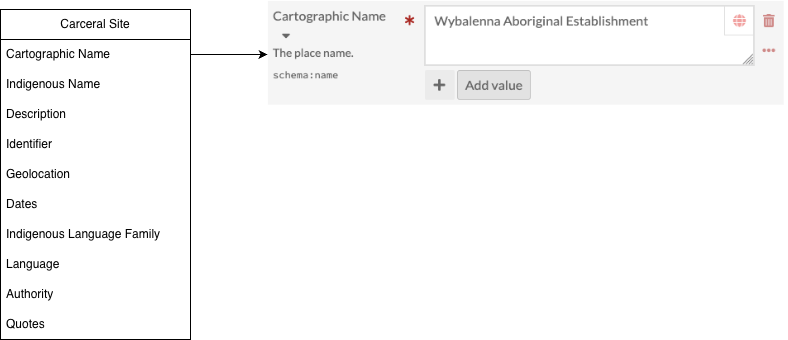
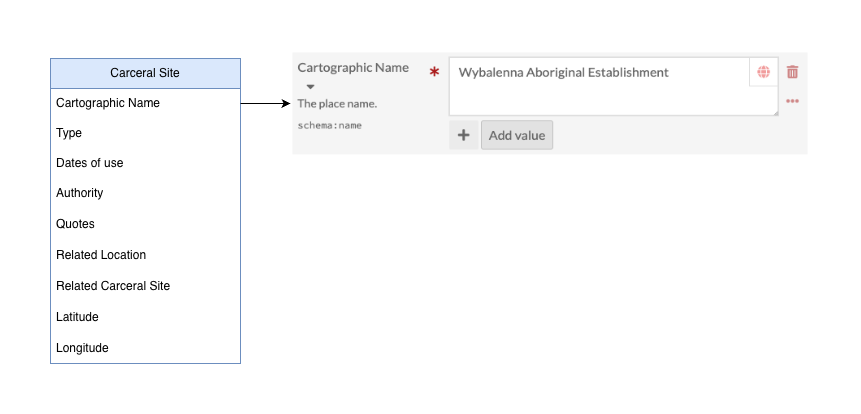
Made the data model diagrams consistent with section 01

diff --git a/notebooks/04_edit_items.md b/notebooks/04_edit_items.md
@@ -12,10 +12,10 @@ Site looks like as a data object:
 
 ![Carceral object](figures/04_carceral_site.png)
 
-This diagram shows one of our carceral site properties, "Cartographic
-Name", and what it looks like in the Omeka S edit page:
+Here is what the first property in this object, "Cartographic
+Name" looks like in the Omeka S edit page:
 
-![Carceral object edit](figures/04_item_diagram.png)
+![Carceral object edit](figures/04_edit_name.png)
 
 There's two reasons for all the extra complexity here. One is that
 Omeka S properties have to be defined as part of a _vocabulary_ -
@@ -65,8 +65,10 @@ This speeds things up a lot when adding items, but the resource
 templates have quite a lot of fields, which are left empty when there's
 no value for them.
 
-We'll have a quick look at the standard resource templates at the end
-of the workshop.
+This distribution of Omeka S comes with eleven pre-build resource
+template for describing common objects of study in the humanities - it's
+possible to add new ones or modify the existing ones. We'll revisit
+resource templates in the section about adding new items.
 
 For now, I've added a description (which I grabbed from Wikipedia) to the item I'm editing - you can do the same. It's probably easiest if we make sure we're not editing the same record.
 
